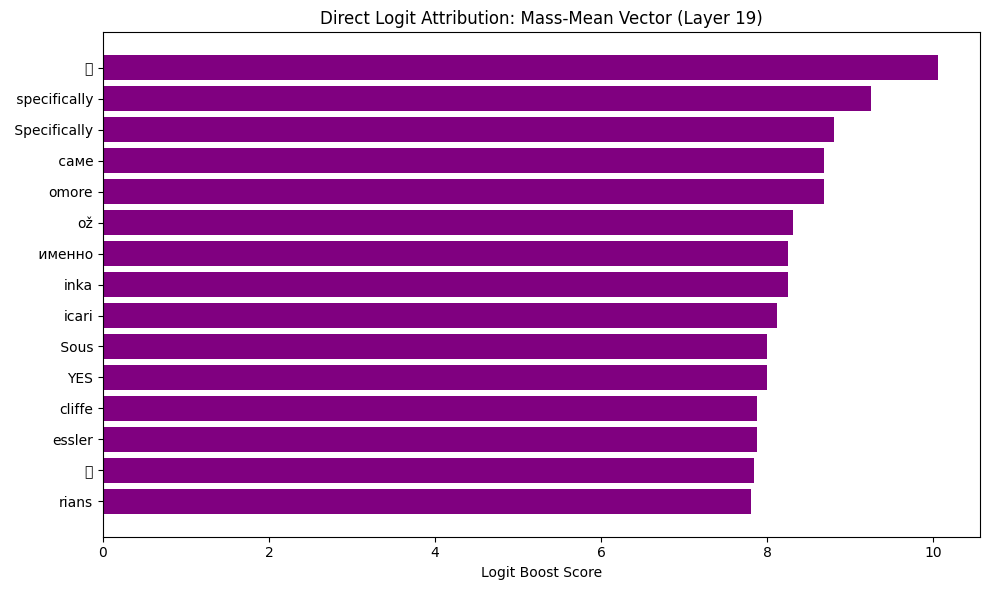
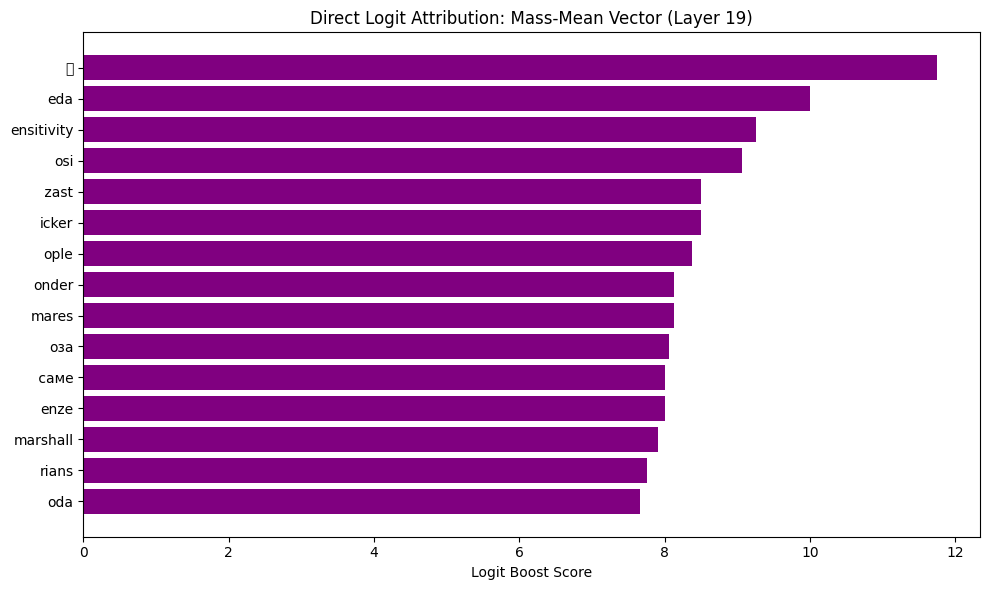
tried merge parallel

diff --git a/linear_probe/compute_mass_mean_vector.py b/linear_probe/compute_mass_mean_vector.py
@@ -18,21 +18,47 @@ from transformers import AutoModelForCausalLM, AutoTokenizer
 
 
 def load_class_vectors(root_dir, layer, coeff):
-    """Load all activation vectors for a given layer from all concept subdirs."""
+    """Load all activation vectors for a given layer from flat concept files."""
     vectors = []
     concepts = []
-    for concept_dir in sorted(d for d in root_dir.iterdir() if d.is_dir()):
-        concept = concept_dir.name
-        files = list(concept_dir.glob(f"*_layer{layer}_coeff{coeff}_*.pt"))
+    
+    # 1. Look for single-layer files
+    files = list(root_dir.glob(f"*_layer{layer}_coeff{coeff}_*.pt"))
+    if not files:
+        files = list(root_dir.glob(f"*_layer{layer}_noinject_*.pt"))
+        
+    # 2. Look for multi-layer files if no single-layer matches found
+    if not files:
+        files = list(root_dir.glob(f"*_layers*_coeff{coeff}_*.pt"))
         if not files:
-            files = list(concept_dir.glob(f"*_layer{layer}_noinject_*.pt"))
-        for f in files:
-            try:
-                vec = torch.load(f, map_location="cpu")['activations']['last_token']
-                vectors.append(vec.float())
-                concepts.append(concept)
-            except Exception:
+            files = list(root_dir.glob(f"*_layers*_noinject_*.pt"))
+            
+    for f in files:
+        # Check if this multilayer file contains our target layer structurally
+        if "_layers" in f.name:
+            layer_range = f.name.split("_layers")[1].split("_")[0]
+            start, end = map(int, layer_range.split("-"))
+            if not (start <= layer <= end):
                 continue
+                
+        try:
+            concept = torch.load(f, map_location="cpu", weights_only=False).get('concept', f.name.split('_')[0])
+            acts = torch.load(f, map_location="cpu", weights_only=False)['activations']
+            
+            # Handle multi-layer dictionary format vs legacy single-layer point format
+            if layer in acts:
+                vec = acts[layer]['last_token']
+            elif 'last_token' in acts:
+                vec = acts['last_token']
+            else:
+                continue
+                
+            vectors.append(vec.float())
+            concepts.append(concept)
+        except Exception as e:
+            print(f"Failed to load {f}: {e}")
+            continue
+            
     return vectors, concepts
 
 
@@ -50,6 +76,8 @@ def main():
                         help="Model for logit lens analysis")
     parser.add_argument("--skip_logit_lens", action="store_true",
                         help="Skip the logit lens analysis (no model loading)")
+    parser.add_argument("--merge_parallel", action="store_true",
+                        help="Consider detected_parallel as detected_correct for the mass-mean vector and plot")
     args = parser.parse_args()
 
     layer = args.layer
@@ -65,15 +93,36 @@ def main():
     pos_vecs, pos_concepts = load_class_vectors(injected_dir, layer, coeff)
     neg_vecs, neg_concepts = load_class_vectors(clean_dir, layer, coeff)
 
+    # Automatically derive the parent split dir
+    parent_dir = injected_dir.parent
+    
+    # Try to load extra classes for plotting on the same vector axis
+    opp_vecs, opp_concepts = load_class_vectors(parent_dir / "detected_opposite", layer, coeff)
+    ortho_vecs, ortho_concepts = load_class_vectors(parent_dir / "detected_orthogonal", layer, coeff)
+    para_vecs, para_concepts = load_class_vectors(parent_dir / "detected_parallel", layer, coeff)
+
+    if args.merge_parallel:
+        print("  [Note] Merging detected_parallel into detected_correct class.")
+        pos_vecs.extend(para_vecs)
+        pos_concepts.extend(para_concepts)
+        para_vecs, para_concepts = [], []
+
     if not pos_vecs or not neg_vecs:
         print(f"ERROR: No data found! Positive: {len(pos_vecs)}, Negative: {len(neg_vecs)}")
         return
 
     pos_tensor = torch.stack(pos_vecs)  # [N_pos, hidden_size]
     neg_tensor = torch.stack(neg_vecs)  # [N_neg, hidden_size]
+    
+    opp_tensor = torch.stack(opp_vecs) if opp_vecs else torch.empty((0, pos_tensor.shape[1]))
+    ortho_tensor = torch.stack(ortho_vecs) if ortho_vecs else torch.empty((0, pos_tensor.shape[1]))
+    para_tensor = torch.stack(para_vecs) if para_vecs else torch.empty((0, pos_tensor.shape[1]))
 
-    print(f"  Detected:     {pos_tensor.shape[0]} vectors from {len(set(pos_concepts))} concepts")
-    print(f"  Not detected: {neg_tensor.shape[0]} vectors from {len(set(neg_concepts))} concepts")
+    print(f"  Detected (correct):       {pos_tensor.shape[0]} vectors from {len(set(pos_concepts))} concepts")
+    print(f"  Not detected:             {neg_tensor.shape[0]} vectors from {len(set(neg_concepts))} concepts")
+    if len(opp_vecs) > 0: print(f"  Detected (opposite):      {opp_tensor.shape[0]} vectors from {len(set(opp_concepts))} concepts")
+    if len(ortho_vecs) > 0: print(f"  Detected (orthogonal):    {ortho_tensor.shape[0]} vectors from {len(set(ortho_concepts))} concepts")
+    if len(para_vecs) > 0: print(f"  Detected (parallel):      {para_tensor.shape[0]} vectors from {len(set(para_concepts))} concepts")
 
     # ---------------------------------------------------------
     # The Math: Calculate the Mass-Mean Vector
@@ -120,15 +169,25 @@ def main():
     projection_scores = (X_all @ mass_mean_normalized).numpy()
     y_np = y_all.numpy()
 
-    # Separation metric
+    # Projection scores for existing categories
     pos_scores = projection_scores[y_np == 1]
     neg_scores = projection_scores[y_np == 0]
-    separation = pos_scores.mean() - neg_scores.mean()
-    print(f"\n  Mean score (detected):     {pos_scores.mean():.4f} ± {pos_scores.std():.4f}")
-    print(f"  Mean score (not detected): {neg_scores.mean():.4f} ± {neg_scores.std():.4f}")
-    print(f"  Separation:                {separation:.4f}")
+    
+    # Projection scores for extra categories
+    opp_scores = (opp_tensor @ mass_mean_normalized).numpy() if len(opp_tensor) > 0 else np.array([])
+    ortho_scores = (ortho_tensor @ mass_mean_normalized).numpy() if len(ortho_tensor) > 0 else np.array([])
+    para_scores = (para_tensor @ mass_mean_normalized).numpy() if len(para_tensor) > 0 else np.array([])
 
-    plt.figure(figsize=(12, 4))
+    # Separation metric
+    separation = pos_scores.mean() - neg_scores.mean()
+    print(f"\n  Mean score (detected - correct):   {pos_scores.mean():.4f} ± {pos_scores.std():.4f}")
+    if len(para_scores) > 0: print(f"  Mean score (detected - parallel):  {para_scores.mean():.4f} ± {para_scores.std():.4f}")
+    if len(ortho_scores) > 0: print(f"  Mean score (detected - orthogonal):{ortho_scores.mean():.4f} ± {ortho_scores.std():.4f}")
+    if len(opp_scores) > 0: print(f"  Mean score (detected - opposite):  {opp_scores.mean():.4f} ± {opp_scores.std():.4f}")
+    print(f"  Mean score (not detected):         {neg_scores.mean():.4f} ± {neg_scores.std():.4f}")
+    print(f"  Separation (correct vs not):       {separation:.4f}")
+
+    plt.figure(figsize=(12 * 1.5, 4 * 1.5))
 
     jitter = np.random.uniform(-0.1, 0.1, size=len(y_np))
 
@@ -136,8 +195,23 @@ def main():
                 color='blue', label=f'Not Detected (n={len(neg_scores)})',
                 alpha=0.7, edgecolors='w', s=80)
     plt.scatter(pos_scores, jitter[y_np == 1],
-                color='red', label=f'Detected (n={len(pos_scores)})',
+                color='red', label=f'Detected Correct (n={len(pos_scores)})',
                 alpha=0.7, edgecolors='w', s=80, marker='^')
+                
+    if len(opp_scores) > 0:
+        jitter_opp = np.random.uniform(-0.1, 0.1, size=len(opp_scores))
+        plt.scatter(opp_scores, jitter_opp, color='purple', label=f'Detected Opposite (n={len(opp_scores)})',
+                    alpha=0.7, edgecolors='w', s=80, marker='X')
+                    
+    if len(ortho_scores) > 0:
+        jitter_ortho = np.random.uniform(-0.1, 0.1, size=len(ortho_scores))
+        plt.scatter(ortho_scores, jitter_ortho, color='orange', label=f'Detected Orthogonal (n={len(ortho_scores)})',
+                    alpha=0.7, edgecolors='w', s=80, marker='o')
+                    
+    if len(para_scores) > 0:
+        jitter_para = np.random.uniform(-0.1, 0.1, size=len(para_scores))
+        plt.scatter(para_scores, jitter_para, color='cyan', label=f'Detected Parallel (n={len(para_scores)})',
+                    alpha=0.7, edgecolors='w', s=80, marker='D')
 
     # Decision boundary at the midpoint of the two class means
     midpoint = (pos_scores.mean() + neg_scores.mean()) / 2

diff --git a/linear_probe/save_vectors_not_detected.py b/linear_probe/save_vectors_not_detected.py
@@ -308,7 +308,7 @@ def main():
                         choices=["avg", "last"])
     parser.add_argument("--datasets", type=str, nargs="+",
                         default=["simple_data", "complex_data", "simple_data_expanded, simple_data_expanded_embeddings"])
-    parser.add_argument("--save_dir", type=str, default=str(PROJECT_ROOT / "success_results"))
+    parser.add_argument("--save_dir", type=str, default=str(PROJECT_ROOT / "linear_probe" / "saved_activations"))
     parser.add_argument("--max_new_tokens", type=int, default=100)
     parser.add_argument("--capture_all_layers", action="store_true",
                         help="Capture activations at every layer from inject_layer → 31")

diff --git a/linear_probe/README.md b/linear_probe/README.md
@@ -39,3 +39,10 @@ python test_probe_dir_casual.py --layers 16 --coeffs 8.0 --datasets test_data --
 ### increasing dataset
 
 python save_vectors_not_detected.py --layers 16 --coeffs 8.0 --datasets simple_data_expanded_embeddings --capture_all_layers
+
+python compute_mass_mean_vector.py --layer 24 --injected-dir saved_activations/run_03_01_26_17_00/detected_correct --clean-dir saved_activations/run_03_01_26_17_00/not_detected --merge_parallel
+
+python test_probe_dir_casual.py --layers 16 --coeffs 8.0 --datasets test_data --alphas -8 -5 -2 0 2 5 8 16 24 --probe_layer 24 --clean_once --probe_path probe_vectors/mass_mean_vector_layer24.pt
+
+### treat parallel as correct
+python test_probe_dir_casual.py --layers 16 --coeffs 8.0 --datasets test_data --alphas -8 -5 -2 0 2 5 8 16 24 --probe_layer 19 --clean_once --probe_path probe_vectors/mass_mean_vector_layer19.pt
